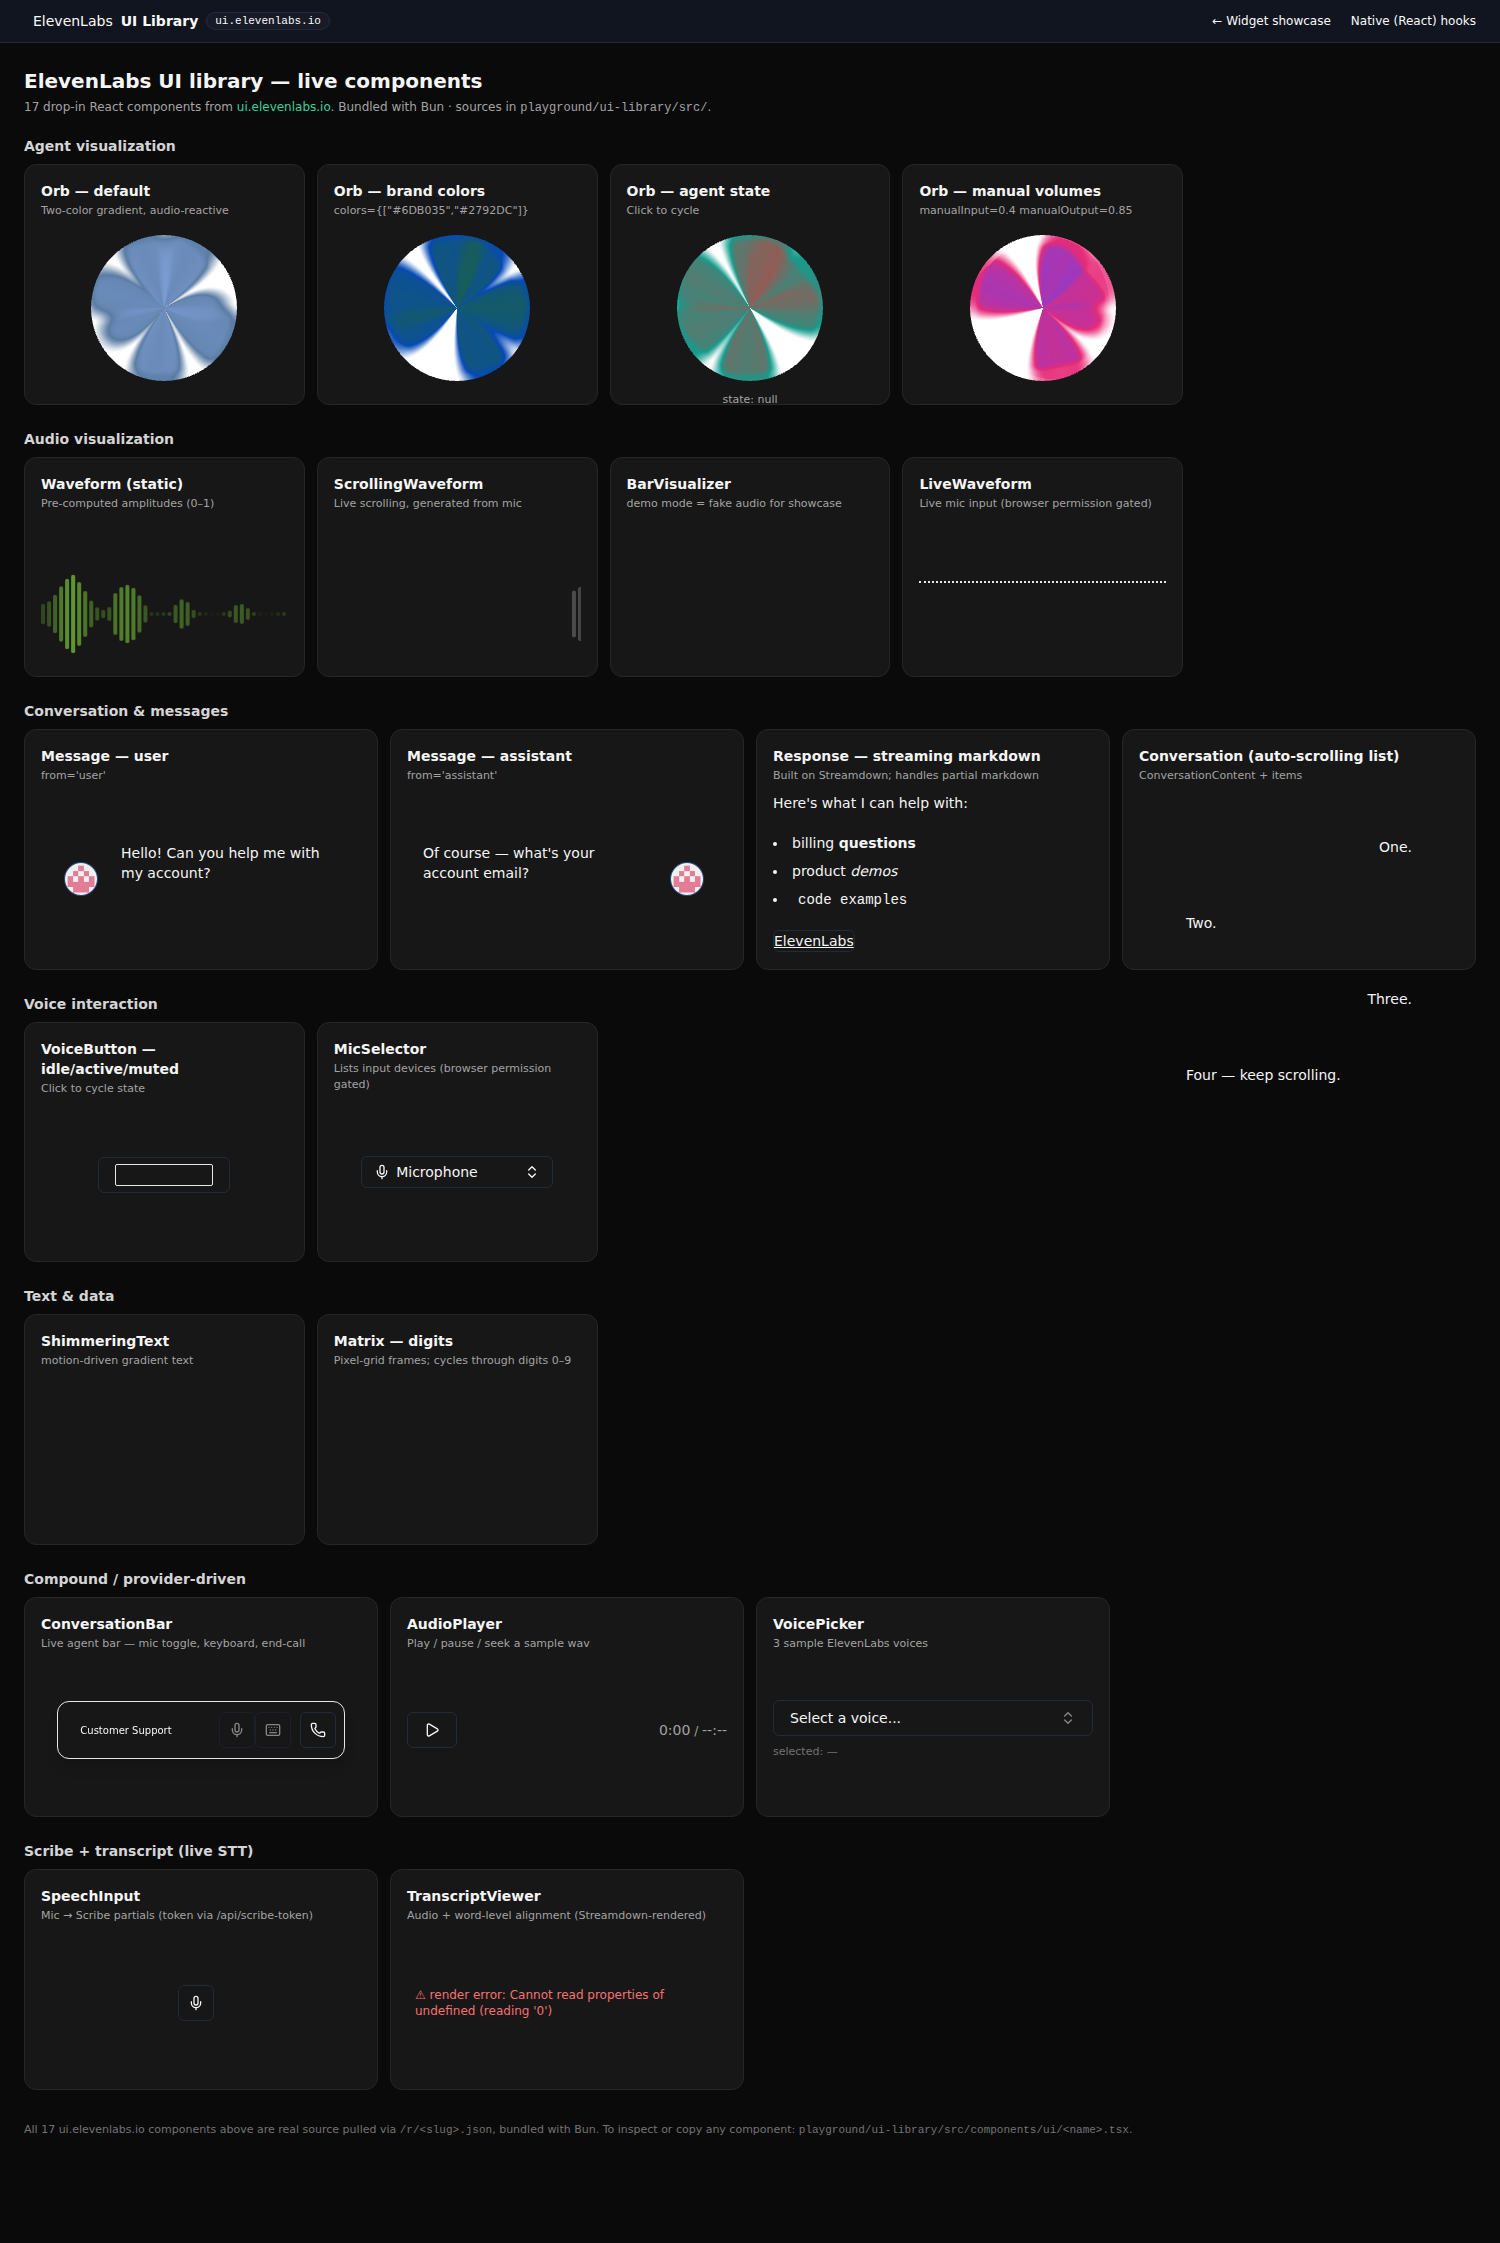
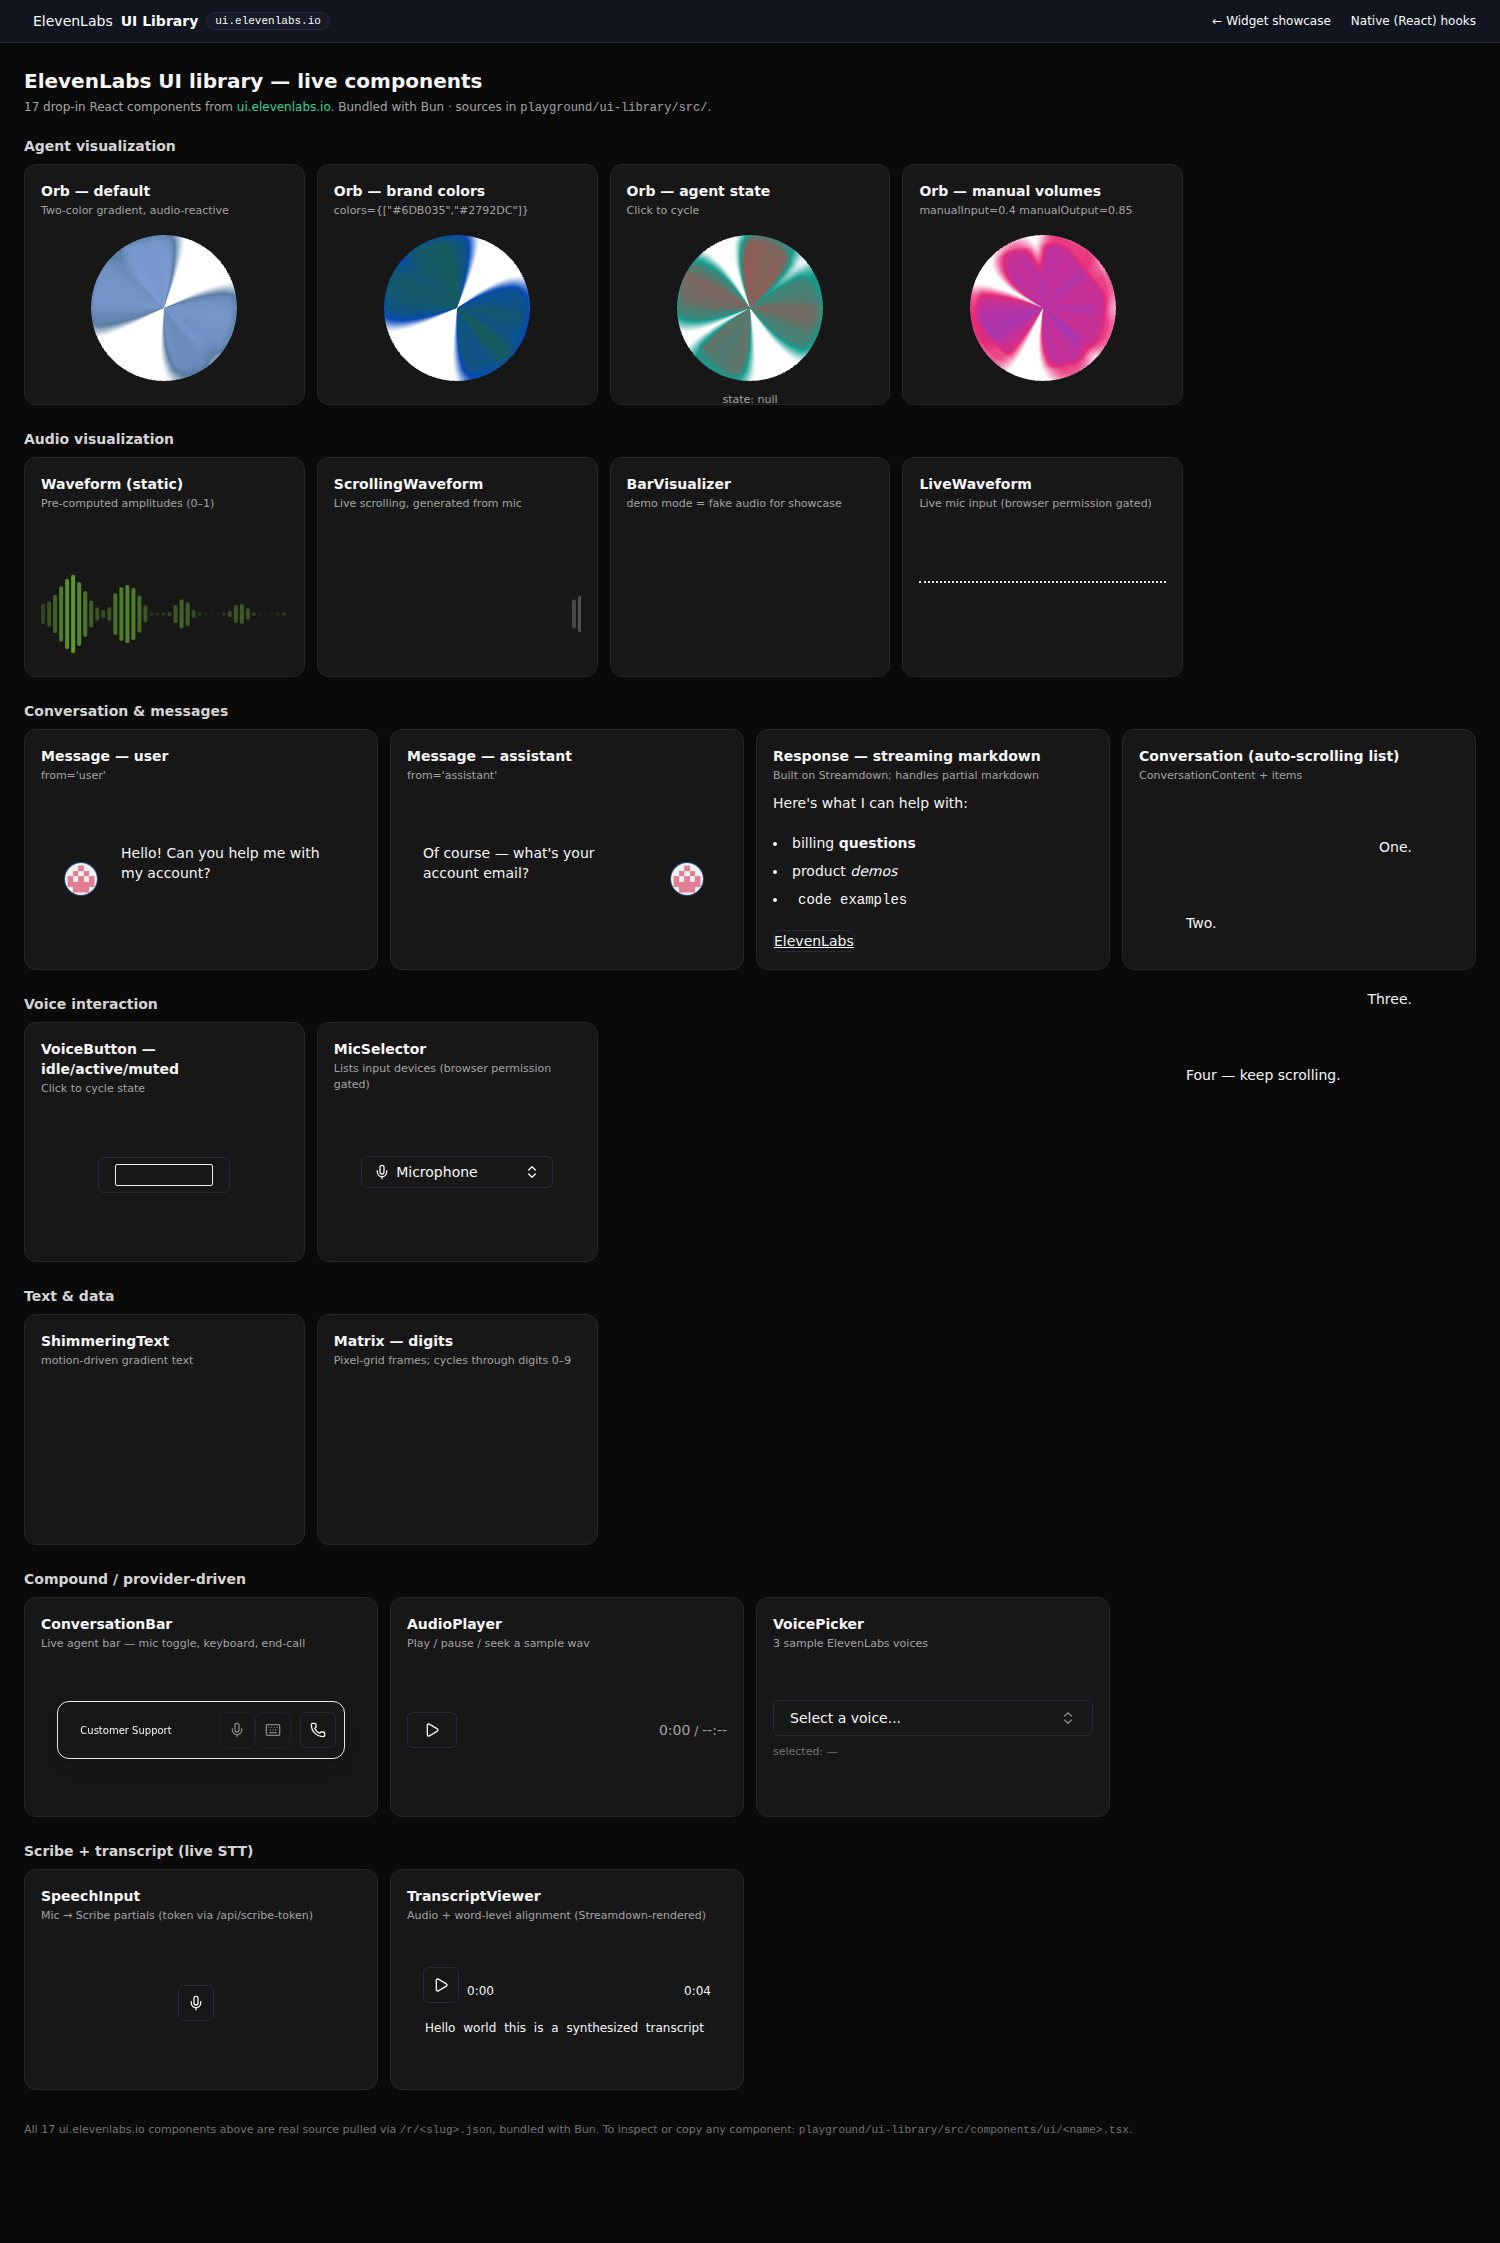
fix(playground): TranscriptViewer renders — camelCase alignment fields
The use-transcript-viewer hook destructures `characterStartTimesSeconds`
camelCase, not the OpenAPI snake_case `character_start_times_seconds` I
seeded. With the right shape, the viewer renders "Hello world this is a
synthesized transcript" with play + scrub bar (audit/R bottom).

17/17 ui.elevenlabs.io components now visibly rendering in the showcase.

diff --git a/playground/ui-library/src/main.tsx b/playground/ui-library/src/main.tsx
@@ -218,8 +218,8 @@ function App() {
               audioType="audio/wav"
               alignment={{
                 characters: "Hello world this is a synthesized transcript".split(""),
-                character_start_times_seconds: Array.from({ length: 43 }, (_, i) => i * 0.1),
-                character_end_times_seconds: Array.from({ length: 43 }, (_, i) => i * 0.1 + 0.09),
+                characterStartTimesSeconds: Array.from({ length: 43 }, (_, i) => i * 0.1),
+                characterEndTimesSeconds: Array.from({ length: 43 }, (_, i) => i * 0.1 + 0.09),
               } as any}
             >
               <div className="flex items-center gap-2 mb-2">

diff --git a/playground/AUDIT.md b/playground/AUDIT.md
@@ -99,7 +99,7 @@ After missing it entirely in the first pass, the full ElevenLabs UI library at h
 | O14 | AudioPlayer (Provider + Button + Progress + Time/Duration) | ✅ | plays public WAV |
 | O15 | VoicePicker | ✅ | 3 real voice IDs |
 | O16 | SpeechInput | ◑ | record button renders; live recording needs real mic |
-| O17 | TranscriptViewer | ◑ | mounts; synthetic alignment lacks required fields → boundary message |
+| O17 | TranscriptViewer (Container + Words + PlayPause + ScrubBar) | ✅ | renders "Hello world this is a synthesized transcript" with play/scrub controls (camelCase `characterStartTimesSeconds` fields) |
 
 ### Discoverability overhaul of `/` (the widget control plane)
 The previous Datadog-style dense console was hostile to non-engineers (acknowledged via memory `feedback-showcase-must-be-discoverable`). Now:

diff --git a/playground/FEATURE-MATRIX.md b/playground/FEATURE-MATRIX.md
@@ -211,7 +211,7 @@ Built into `/ui-library.html` via Bun bundle from sources fetched at `https://ui
 - [x] O14 `AudioPlayer` (Provider + Button + Progress + Time/Duration with public WAV) — UI
 - [x] O15 `VoicePicker` (Popover + Command with 3 sample voices) — UI
 - [~] O16 `SpeechInput` (compound — Scribe-driven mic + preview + record button) — source present, not embedded
-- [~] O17 `TranscriptViewer` (compound — Provider + Container + Words + Audio + ScrubBar) — source present, not embedded
+- [x] O17 `TranscriptViewer` (Container + Words + PlayPauseButton + ScrubBar) — renders words + audio scrubber with synthetic alignment
 
 ## N. Polish / proof
 - [x] N1 single-page nav across all sections — W